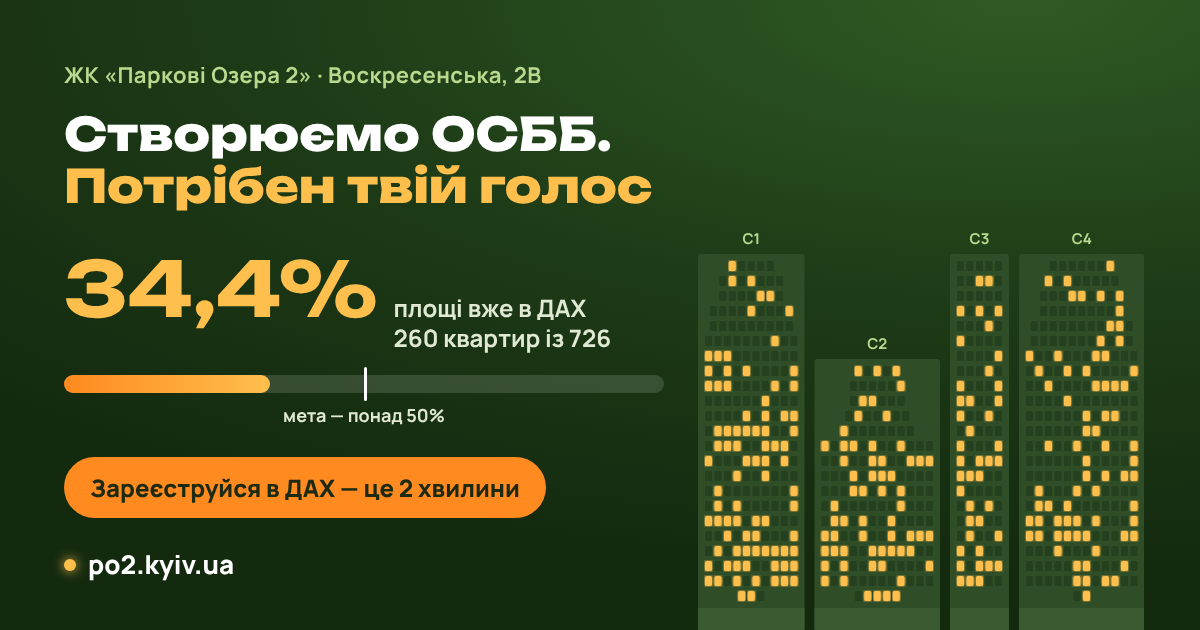
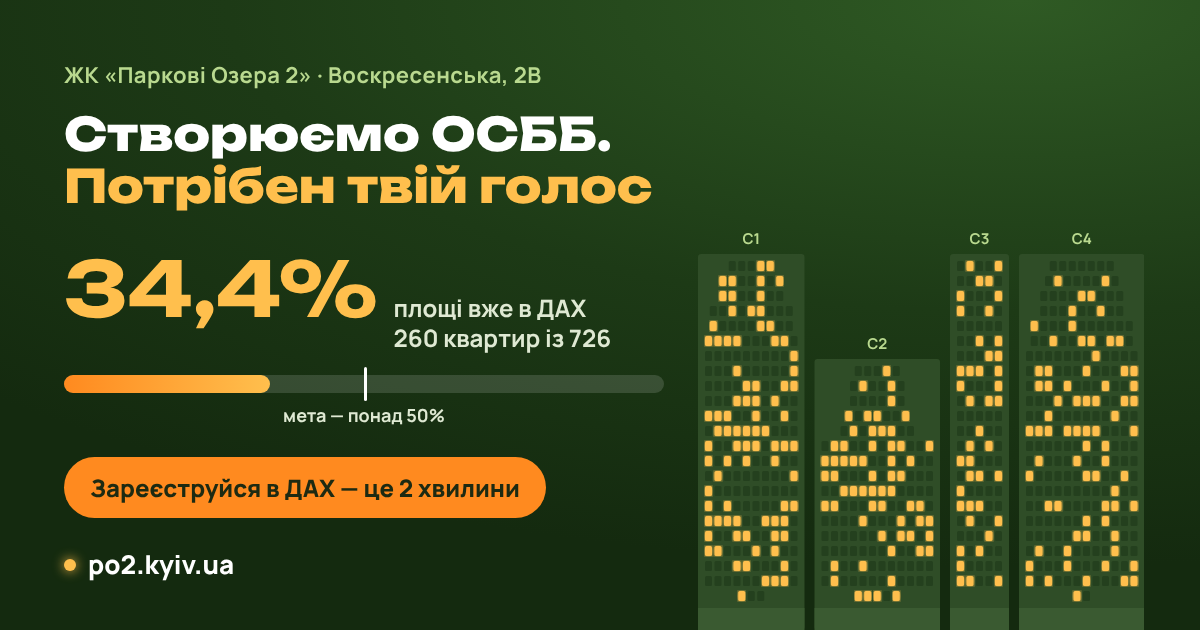
Оновлено голоси ДАХ (реєстр v10, 23.10)
Claude-Session: https://claude.ai/code/session_01WgNAs19H1RoJtxDub5TKHf

Changed region(s): [[0.5858, 0.3921, 0.9558, 0.9651], [0.7092, 0.9349, 0.74, 0.9651], [0.6475, 0.5429, 0.6783, 0.573]]

diff --git a/votes.js b/votes.js
@@ -1,2 +1,2 @@
 // Згенеровано tools/build_votes.py — не редагуйте вручну.
-window.VOTES = {"updatedAt":"2026-10-22T00:42","baseArea":50258.3,"dahArea":17264.7,"areaEstimated":4,"sections":[{"total":210,"inDah":84},{"total":157,"inDah":61},{"total":110,"inDah":42},{"total":249,"inDah":73}]};
+window.VOTES = {"updatedAt":"2026-10-23T14:52","baseArea":50258.3,"dahArea":17270.7,"areaEstimated":3,"sections":[{"total":210,"inDah":84},{"total":157,"inDah":61},{"total":110,"inDah":42},{"total":249,"inDah":73}]};
